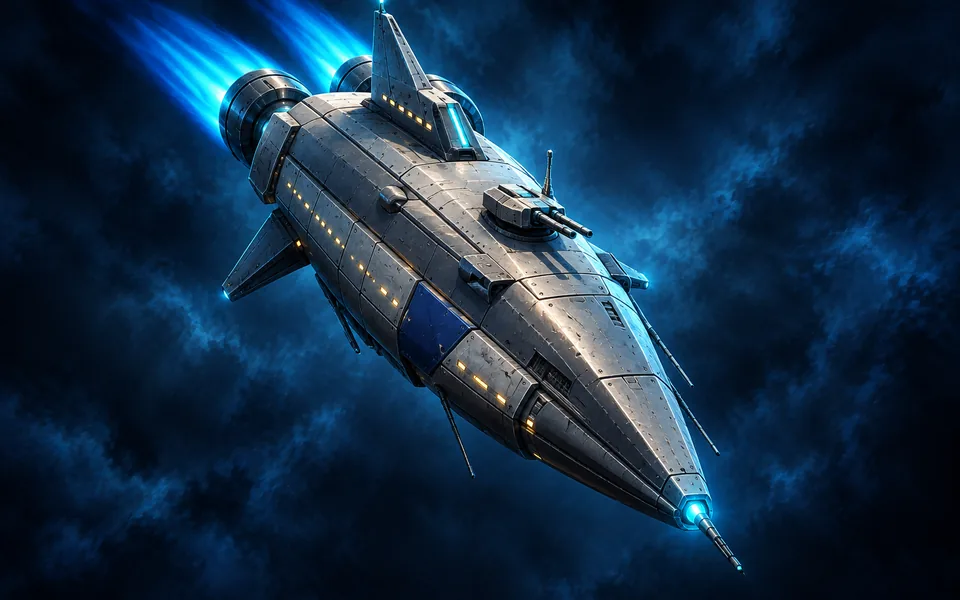
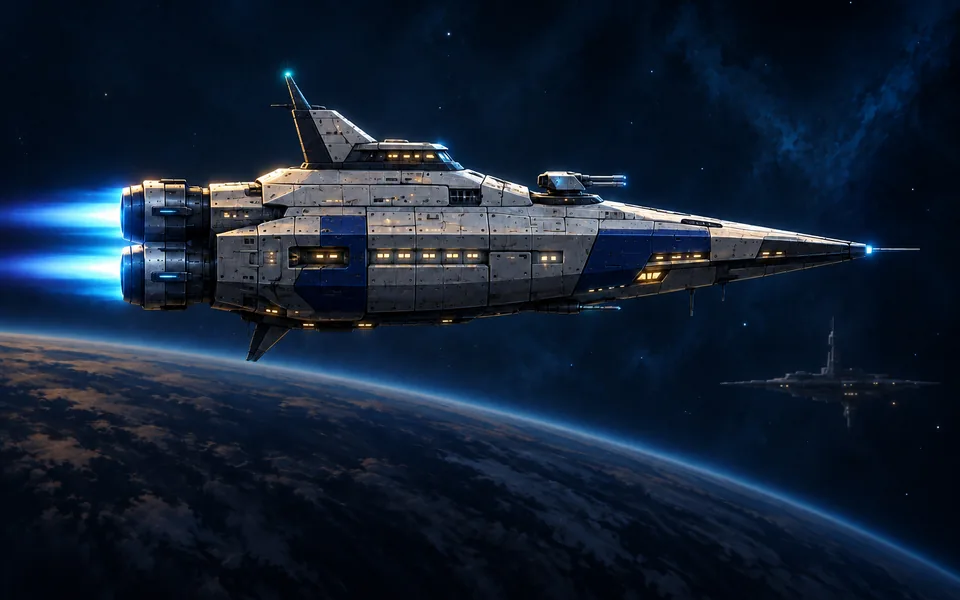
Painted art: Fleet batch 3 (frigate/battlecruiser redos, support troops)

diff --git a/js/painted.js b/js/painted.js
@@ -1,3 +1,3 @@
 'use strict';
 // Generated by tools/art/ingest.py: plates that have painted art in art/cards and art/portraits.
-const PAINTED = {"cards":["assault_drone","battlecruiser","cadet","calculus","heavy_trooper","herald_of_end","hive_reaper","ion_lancer","marine","nyra","patrol_frigate","rhino_tank","salvage_crew","scout_drone","siege_gunner","star_cruiser","vex"],"portraits":{}};
+const PAINTED = {"cards":["assault_drone","battlecruiser","cadet","calculus","field_engineer","heavy_trooper","herald_of_end","hive_reaper","ion_lancer","marine","medic_bot","nyra","patrol_frigate","recon_officer","rhino_tank","rifle_squad","salvage_crew","sapper","scout_drone","shield_trooper","siege_gunner","star_cruiser","vex"],"portraits":{}};
